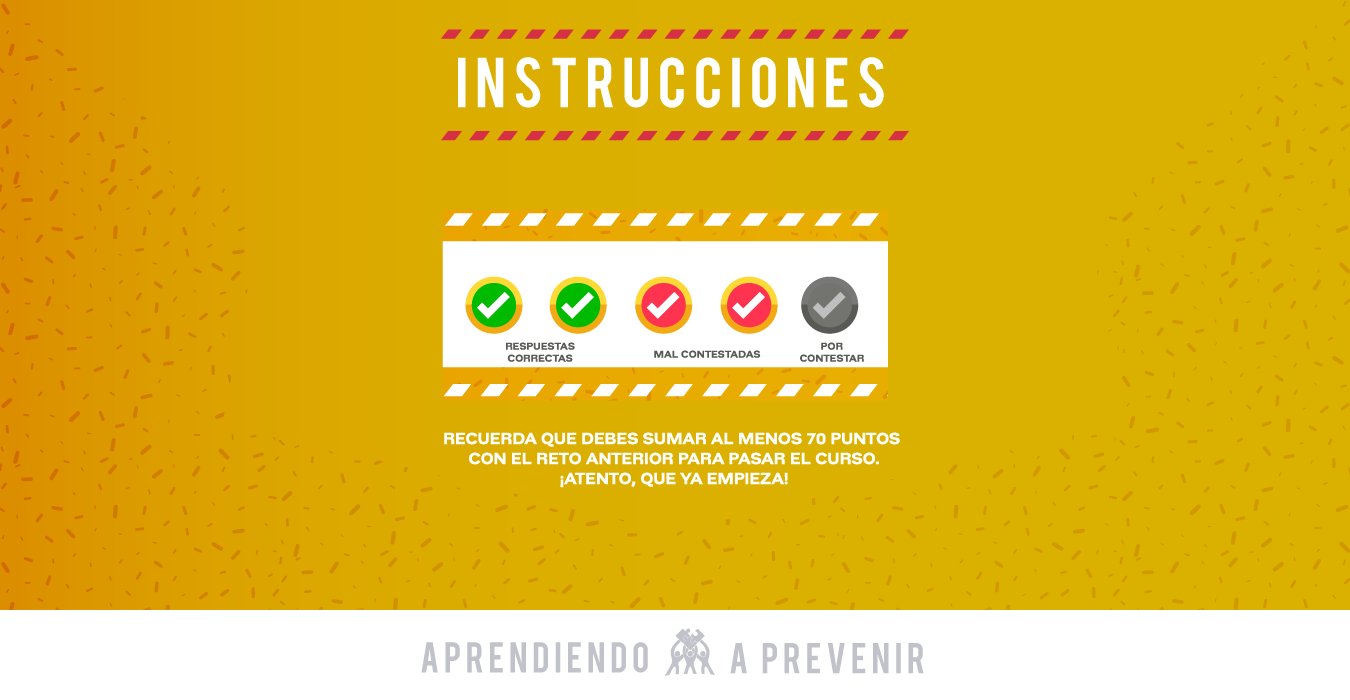
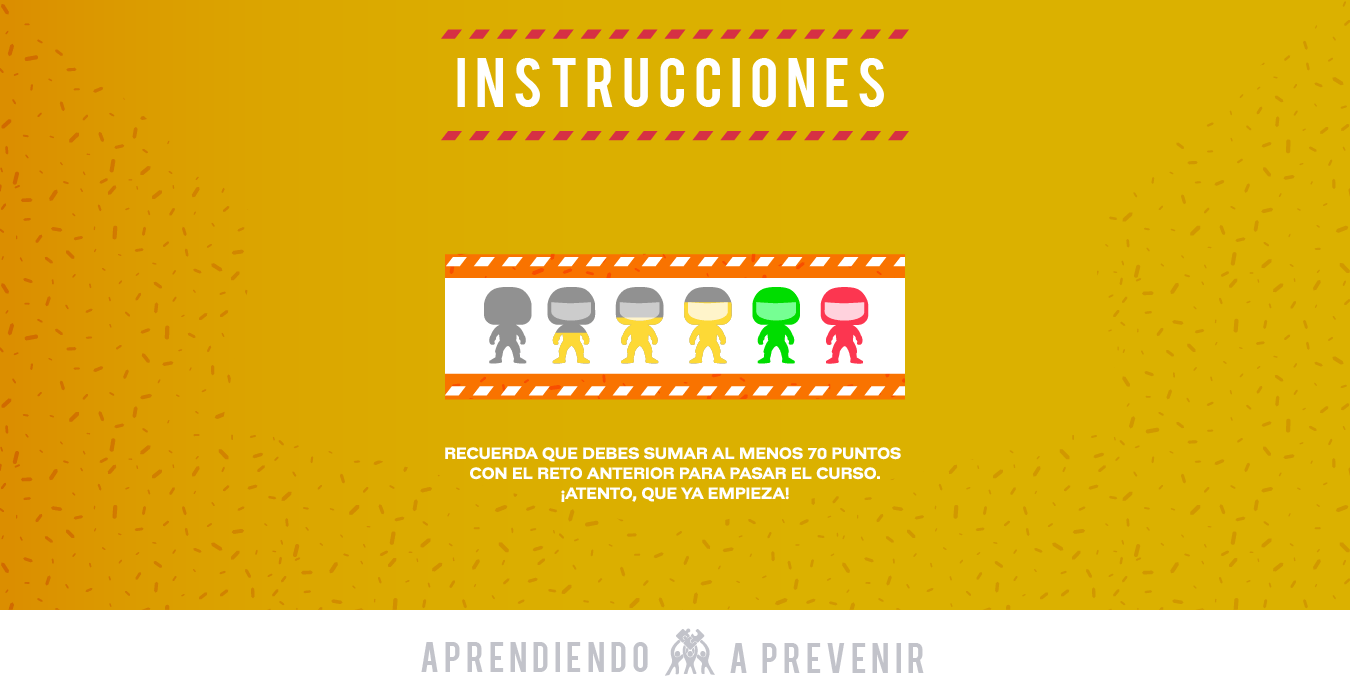
arreglo de drivers 13/08/2018

diff --git a/assets/nivel8/minitest/js/inicio.js b/assets/nivel8/minitest/js/inicio.js
@@ -232,8 +232,7 @@ function initBotones() {
         $sigpregunta++;
         isPaused = true;
         console.log(checkDiv);
-        var id = parseInt($(this).data('rspt'));    
-
+        var id = parseInt($(this).data('rspt'));
             if(id==1){
                 $r_correcta = true;
                 if($pID == 1){ 
@@ -253,17 +252,53 @@ function initBotones() {
                 $rps_correcta = id;
             }else{                
                 console.log("incorrecto");
-            }
+            }            
             if($n_pregunta == "gPreg_1"){
-            setTimeout(function(){ $('#pregunta1_' + $pID).animateCss('bounceOut').fadeOut(800); }, );                  
+            setTimeout(function(){ $('#pregunta1_' + $pID).animateCss('bounceOut').fadeOut(800);
+             }, );
+            if($sigpregunta == 1){                
+                $('#icon_1').css('background-image', 'url('+odir+'/images/icon1.png)');             
+            }else if($sigpregunta == 2){
+                $('#icon_1').css('background-image', 'url('+odir+'/images/icon2.png)'); 
+            }else{
+                $('#icon_1').css('background-image', 'url('+odir+'/images/icon3.png)'); 
+            }            
             }else if($n_pregunta == "gPreg_2"){
-            setTimeout(function(){ $('#pregunta2_' + $pID).animateCss('bounceOut').fadeOut(800); }, ); 
+            setTimeout(function(){ $('#pregunta2_' + $pID).animateCss('bounceOut').fadeOut(800); }, );
+            if($sigpregunta == 1){                
+                $('#icon_2').css('background-image', 'url('+odir+'/images/icon1.png)');             
+            }else if($sigpregunta == 2){
+                $('#icon_2').css('background-image', 'url('+odir+'/images/icon2.png)'); 
+            }else{
+                $('#icon_2').css('background-image', 'url('+odir+'/images/icon3.png)'); 
+            }  
             }else if($n_pregunta == "gPreg_3"){
-            setTimeout(function(){ $('#pregunta3_' + $pID).animateCss('bounceOut').fadeOut(800); }, ); 
+            setTimeout(function(){ $('#pregunta3_' + $pID).animateCss('bounceOut').fadeOut(800); }, );
+            if($sigpregunta == 1){                
+                $('#icon_3').css('background-image', 'url('+odir+'/images/icon1.png)');              
+            }else if($sigpregunta == 2){
+                $('#icon_3').css('background-image', 'url('+odir+'/images/icon2.png)'); 
+            }else{
+                $('#icon_3').css('background-image', 'url('+odir+'/images/icon3.png)'); 
+            } 
             }else if($n_pregunta == "gPreg_4"){
-            setTimeout(function(){ $('#pregunta4_' + $pID).animateCss('bounceOut').fadeOut(800); }, );          
+            setTimeout(function(){ $('#pregunta4_' + $pID).animateCss('bounceOut').fadeOut(800); }, );
+            if($sigpregunta == 1){                
+                $('#icon_4').css('background-image', 'url('+odir+'/images/icon1.png)');              
+            }else if($sigpregunta == 2){
+                $('#icon_4').css('background-image', 'url('+odir+'/images/icon2.png)'); 
+            }else{
+                $('#icon_4').css('background-image', 'url('+odir+'/images/icon3.png)'); 
+            }          
             }else if($n_pregunta == "gPreg_5"){
-            setTimeout(function(){ $('#pregunta5_' + $pID).animateCss('bounceOut').fadeOut(800); }, );          
+            setTimeout(function(){ $('#pregunta5_' + $pID).animateCss('bounceOut').fadeOut(800); }, );
+            if($sigpregunta == 1){                
+                $('#icon_5').css('background-image', 'url('+odir+'/images/icon1.png)');             
+            }else if($sigpregunta == 2){
+                $('#icon_5').css('background-image', 'url('+odir+'/images/icon2.png)'); 
+            }else{
+                $('#icon_5').css('background-image', 'url('+odir+'/images/icon3.png)'); 
+            }           
             }
             if ($rps_correcta == 1){
                 $('.btn_pass').css("background-image", "url("+odir+"/images/BGacierto.png)");  
@@ -309,15 +344,15 @@ function initBotones() {
            $r_correcta = false;
         }else{
             if($n_pregunta=="gPreg_1"){
-             $('#icon_1').addClass('anim check');
+                $('#icon_1').addClass('anim check icon_incorrecto');
             }else if($n_pregunta=="gPreg_2"){
-                $('#icon_2').addClass('anim check');
+                $('#icon_2').addClass('anim check icon_incorrecto');
             }else if($n_pregunta=="gPreg_3"){
-                $('#icon_3').addClass('anim check');
+                $('#icon_3').addClass('anim check icon_incorrecto');
             }else if($n_pregunta=="gPreg_4"){
-                $('#icon_4').addClass('anim check');
+                $('#icon_4').addClass('anim check icon_incorrecto');
             }else if($n_pregunta=="gPreg_5"){
-                $('#icon_5').addClass('anim check');
+                $('#icon_5').addClass('anim check icon_incorrecto');
             }
         }
         if(id_p == 5){

diff --git a/assets/nivel8/minitest/css/estGeneral.css b/assets/nivel8/minitest/css/estGeneral.css
@@ -223,27 +223,55 @@ b{ font-weight: bold; }
 #CMin, #CSeg{ width:70px; color:#ff3650; }
 .iconCheck{
     position: absolute; /*display: none;*/
-    width: 43px; height: 43px;
-    background-image: url(../images/icon_check.png);
-    background-position: -43px 0px;
+    width: 48px; height: 78px;
+    background-image: url(../images/icon_check_d.png);
+    /*background-position: -43px 0px;*/
 }
-
+.icon_incorrecto{
+     position: absolute; /*display: none;*/
+    width: 48px; height: 78px;
+    background-image: url(../images/icon_incorrecto.png)!important;
+    background-position: 0px 0px
+    z-index: 4;
+}
 .icon_correcto{
      position: absolute; /*display: none;*/
-    width: 43px; height: 43px;
-    background-image: url(../images/icon_correcto.png);
-    background-position: 0px 0px;*/
+    width: 48px; height: 78px;
+    background-image: url(../images/icon_correcto.png)!important;
+    background-position: 0px 0px;
+    z-index: 4;
+}
+.icon_1p{
+     position: absolute; /*display: none;*/
+    width: 48px; height: 78px;
+    background-image: url(../images/icon1.png);
+    background-position: 0px 0px;
+    z-index: 1;
+}
+.icon_2p{
+     position: absolute; /*display: none;*/
+    width: 48px; height: 78px;
+    background-image: url(../images/icon2.png);
+    background-position: 0px 0px;
+    z-index: 2;
+}
+.icon_3p{
+     position: absolute; /*display: none;*/
+    width: 48px; height: 78px;
+    background-image: url(../images/icon3.png);
+    background-position: 0px 0px;
+    z-index: 3;
 }
 .iconCheck.anim{ animation:tada 1s; }
 .iconCheck.check{ background-position:0px 0px; }
-#icon_1{ left : 287px; top: 50px; }
-#icon_2{ left : 350px; top: 50px; }
-#icon_3{ left : 415px; top: 50px; }
-#icon_4{ left : 478px; top: 50px; }
-#icon_5{ left : 541px; top: 50px; }
-#icon_6{ left: 480px; top: 50px; }
-#icon_7{ left: 540px; top: 50px; }
-#icon_8{ left: 600px; top: 50px; }
+#icon_1{ left : 287px; top: 35px; }
+#icon_2{ left : 350px; top: 35px; }
+#icon_3{ left : 415px; top: 35px; }
+#icon_4{ left : 478px; top: 35px; }
+#icon_5{ left : 541px; top: 35px; }
+#icon_6{ left: 480px; top: 35px; }
+#icon_7{ left: 540px; top: 35px; }
+#icon_8{ left: 600px; top: 35px; }
 /*******************************************************************************/
 #pregBien{ background-image: url(../images/BGpregBien.png); }
 #btnPBien{
